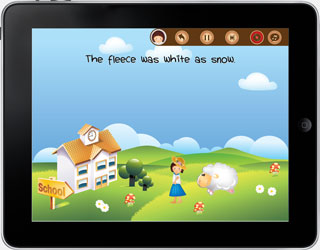
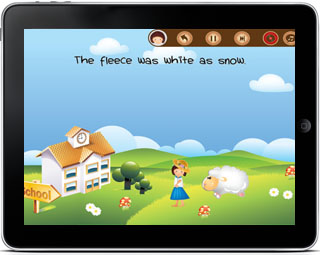
- Added carousel to Kids Karaoke with new images (iPad).

Changed region(s): [[0.0, 0.0, 1.0, 1.0]]

diff --git a/kids-karaoke.html b/kids-karaoke.html
@@ -31,6 +31,23 @@
         var s = document.getElementsByTagName('script')[0]; s.parentNode.insertBefore(ga, s);
       })();
     </script>
+     <script src="http://cdnjs.cloudflare.com/ajax/libs/jquery/1.8.3/jquery.min.js"></script>
+    <script src="http://cdnjs.cloudflare.com/ajax/libs/jquery.caroufredsel/6.1.0/jquery.carouFredSel.packed.js"></script>
+    
+        <script type="text/javascript">
+            $(document).ready(function() {
+            // Using custom configuration
+            $("#kk").carouFredSel({
+                direction           : "left",
+                scroll : {
+                    circular        : true,
+                    items           : 1,
+                    duration        : 500,                        
+                    pauseOnHover    : true
+                }                  
+            });
+        });
+        </script>
 </head>
 
 <body>
@@ -75,8 +92,17 @@
             <p>Surprise your kids with our shuffle feature, as they sing, dance, clap along with the rhythm! </p>
 
             <center>
-            <img src="images/app/kk_santa.jpg" width="320" height="250" alt="Kids Karaoke - Santa Claus is Coming to Town">
-            <img src="images/app/kk_mary_lamb.jpg" width="320" height="250" alt="Kids Karaoke - Mary Had A Little Lamb"> 
+
+            <div class="caroufredsel_wrapper">
+                <div id = "kk">
+                    <img src="images/app/kk_splashscreen.jpg" width="320" height="250" alt="Kids Karaoke - Splash Screen">
+                    <img src="images/app/kk_dashboard.jpg" width="320" height="250" alt="Kids Karaoke - Dashboard">
+                    <img src="images/app/kk_santa.jpg" width="320" height="250" alt="Kids Karaoke - Santa Claus is Coming to Town">
+                    <img src="images/app/kk_mary_lamb.jpg" width="320" height="250" alt="Kids Karaoke - Mary Had A Little Lamb">
+                </div>
+            </div>    
+            <!--img src="images/app/kk_santa.jpg" width="320" height="250" alt="Kids Karaoke - Santa Claus is Coming to Town">
+            <img src="images/app/kk_mary_lamb.jpg" width="320" height="250" alt="Kids Karaoke - Mary Had A Little Lamb"--> 
             </center>
 
             <h2>Learn to sing the following songs:</h2>
@@ -100,7 +126,7 @@
                 <img src="images/app/kk_icon.png" width="256" height="256" alt="Sing Along with Ann!">
                 <div style="margin: 30px 0;">
                     <a href='http://itunes.apple.com/us/app/kids-karaoke/id408646280?mt=8'>
-                        <img src="images/app/iphone_appstore.png" alt="Available on the App Store">
+                        <img src="images/app/generic_appstore.png" alt="Available on the App Store">
                     </a>
                     <a href='https://play.google.com/store/apps/details?id=com.sysmoko.kk'>
                         <img src="images/app/android_google_play.png" alt="Available on Android Marketplace">

diff --git a/merry-lambs.html b/merry-lambs.html
@@ -114,7 +114,7 @@
                 <img src="images/app/ml_icon.png" width="256" height="256" alt="Merry Lambs" >
                 <div style="margin: 30px 0;">
                     <a href='http://itunes.apple.com/us/app/merry-lambs/id477461943?mt=8'>
-                        <img src="images/app/iphone_appstore.png" alt="Available on the App Store">
+                        <img src="images/app/generic_appstore.png" alt="Available on the App Store">
                     </a>
                 </div>
             </center>
